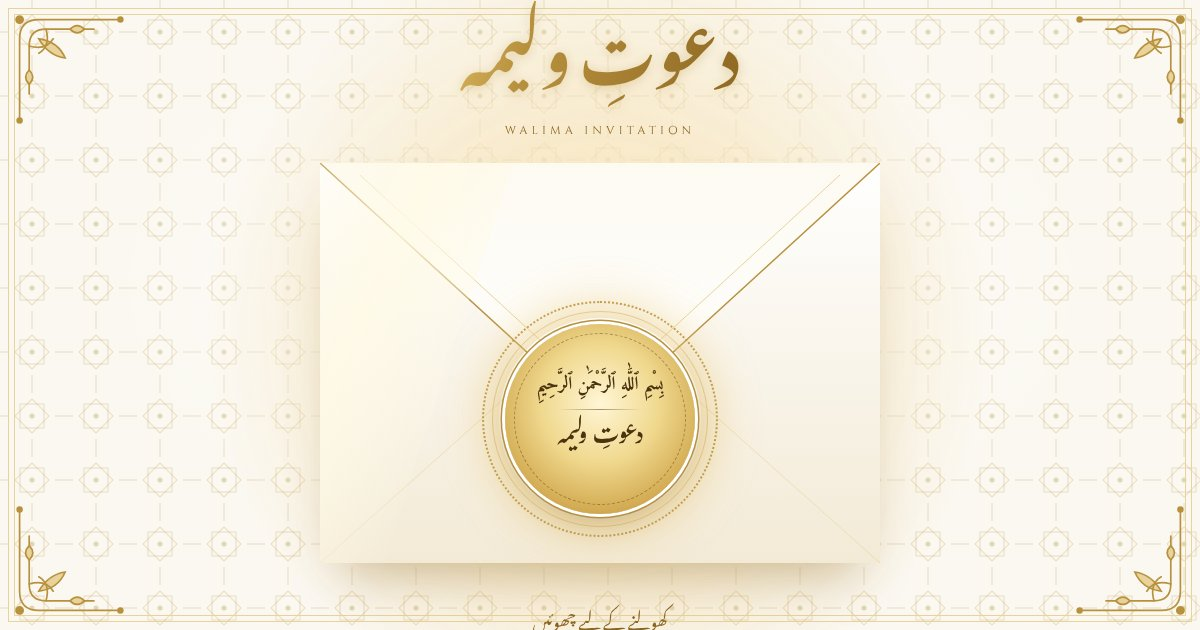
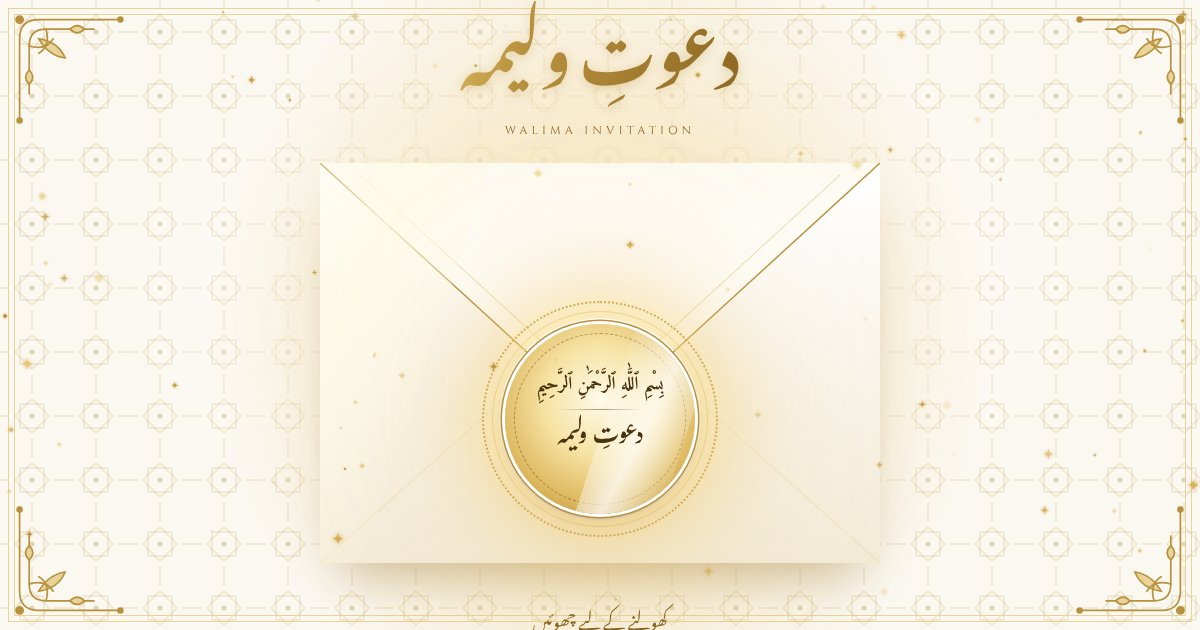
White card: Nikah dates back, twinkling stars back, glowing seal; Walima on the front
Claude-Session: https://claude.ai/code/session_0114uiG5UvM8er5AcL78Nz6p

diff --git a/wedding-card-white/index.html b/wedding-card-white/index.html
@@ -132,8 +132,9 @@ h2.sec .en { font-family: var(--f-caps); font-size: .7rem; letter-spacing: .26em
 .lbl .en { font-family: var(--f-caps); font-size: .62rem; letter-spacing: .24em; text-transform: uppercase; color: var(--ink-soft); margin-top: 2px; }
 
 .events { width: 100%; display: grid; grid-template-columns: 1fr; gap: 16px; }
-.events.one .weekday { font-size: 1.15rem; unicode-bidi: isolate; }
-.events.one .weekday small { display: block; margin: -.2em 0 0; text-align: center; }
+.event.walima { border-color: var(--gold); box-shadow: 0 0 0 4px #fff, 0 0 0 5px var(--gold-light), 0 12px 30px -16px rgba(184,145,63,.6); background: linear-gradient(#fffdf6, #fff6e2); }
+.event.walima h3 { font-size: 1.6rem; }
+.event .tag { font-family: var(--f-callig); font-size: .8rem; line-height: 1.9; color: #fff; background: var(--gold); padding: 0 12px 4px; border-radius: 999px; margin-bottom: 4px; }
 .event { position: relative; display: flex; flex-direction: column; align-items: center; gap: 4px; padding: 22px 18px 18px; border: 1px solid var(--gold-light); background: linear-gradient(#fff, #fffcf4); min-width: 0; }
 .event .day { width: 64px; height: 64px; border-radius: 50%; display: flex; flex-direction: column; align-items: center; justify-content: center;
   border: 1.5px solid var(--gold); box-shadow: 0 0 0 4px #fff, 0 0 0 5px var(--gold-light); margin-bottom: 8px; }
@@ -169,6 +170,8 @@ h2.sec .en { font-family: var(--f-caps); font-size: .7rem; letter-spacing: .26em
 .muntazir .en { font-size: .84rem; color: var(--ink-soft); }
 
 /* ---------- glitter canvases ---------- */
+canvas.sky { position: fixed; inset: 0; width: 100%; height: 100%; z-index: 0; pointer-events: none; }
+body.gate-up canvas.sky { z-index: 35; }
 canvas.burst { position: fixed; inset: 0; width: 100%; height: 100%; z-index: 40; pointer-events: none; }
 
 /* ---------- opening: pearl envelope with a gold seal ---------- */
@@ -238,14 +241,22 @@ canvas.burst { position: fixed; inset: 0; width: 100%; height: 100%; z-index: 40
   position: absolute; left: 50%; top: 64%; z-index: 5;
   width: 168px; height: 168px; margin: -84px 0 0 -84px; border-radius: 50%;
   display: flex; flex-direction: column; align-items: center; justify-content: center;
-  background: radial-gradient(circle at 50% 42%, #fff6d6 0%, #f0d98f 40%, #d4ad55 72%, #a47a2c 100%);
+  background: radial-gradient(circle at 50% 40%, #fffaea 0%, #f6e2a2 38%, #ddb75e 70%, #ad8232 100%);
   box-shadow: 0 0 0 3px #fff, 0 0 0 4.5px var(--gold), 0 14px 30px -10px rgba(138,100,32,.6);
   transition: transform .5s cubic-bezier(.5,0,.2,1), opacity .4s;
 }
 .seal::before { content: ""; position: absolute; inset: 9px; border-radius: 50%; border: 1.2px dashed rgba(90,60,15,.45); }
+/* soft gold halo that breathes, plus a gleam that crosses the seal */
 .seal::after { content: ""; position: absolute; inset: -6px; border-radius: 50%; pointer-events: none;
-  box-shadow: 0 0 46px 14px rgba(232,200,120,.7); animation: halo 1.8s ease-in-out infinite; will-change: opacity; }
-@keyframes halo { 0%, 100% { opacity: .2; } 50% { opacity: 1; } }
+  box-shadow: 0 0 30px 10px rgba(255,226,140,.95), 0 0 80px 34px rgba(240,200,110,.7), 0 0 140px 60px rgba(240,210,140,.35);
+  animation: halo 2s ease-in-out infinite; will-change: opacity; }
+@keyframes halo { 0%, 100% { opacity: .45; } 50% { opacity: 1; } }
+.seal-gleam { position: absolute; inset: 0; border-radius: 50%; overflow: hidden; pointer-events: none; z-index: 1; }
+.seal-gleam::before { content: ""; position: absolute; top: -10%; bottom: -10%; left: -70%; width: 45%;
+  background: linear-gradient(100deg, rgba(255,255,255,0), rgba(255,255,255,.75) 50%, rgba(255,255,255,0));
+  transform: skewX(-18deg); animation: gleam 3s ease-in-out infinite; will-change: transform; }
+@keyframes gleam { 0%, 50% { transform: translateX(0) skewX(-18deg); } 100% { transform: translateX(420%) skewX(-18deg); } }
+.seal > span:not(.seal-gleam) { position: relative; z-index: 2; }
 .seal .bism { font-family: var(--f-arabic); font-weight: 700; font-size: 1rem; line-height: 1.5; color: #4a3410; direction: rtl; padding-inline: 18px; margin-top: -4px; }
 .seal .seal-line { width: 84px; height: 1px; background: linear-gradient(90deg, transparent, #4a3410, transparent); opacity: .5; margin-block: 10px 6px; }
 .seal .ur { font-family: var(--f-urdu); font-size: 1.5rem; line-height: 1.7; color: #4a3410; direction: rtl; }
@@ -277,7 +288,6 @@ canvas.burst { position: fixed; inset: 0; width: 100%; height: 100%; z-index: 40
   .couples > .lbl { grid-column: 1 / -1; justify-self: center; margin-bottom: 8px; }
   .pair-sep { height: 70%; align-self: center; margin: 0; }
   .events { grid-template-columns: repeat(3, 1fr); }
-  .events.one { grid-template-columns: minmax(0, 420px); justify-content: center; }
   .env { width: 560px; }
   .seal { width: 190px; height: 190px; margin: -95px 0 0 -95px; }
   .seal-ring { width: 236px; height: 236px; margin: -118px 0 0 -118px; }
@@ -302,7 +312,7 @@ canvas.burst { position: fixed; inset: 0; width: 100%; height: 100%; z-index: 40
   .replay-text { display: none; }
 }
 @media (prefers-reduced-motion: reduce) {
-  .foil, .seal::after, .glow, .shine::before, .seal-ring, .gate-title .ur, .gate-hint { animation: none; }
+  .foil, .seal::after, .seal-gleam::before, .glow, .shine::before, .seal-ring, .gate-title .ur, .gate-hint { animation: none; }
 }
 </style>
 </head>
@@ -344,6 +354,7 @@ canvas.burst { position: fixed; inset: 0; width: 100%; height: 100%; z-index: 40
     <div class="shine"></div>
     <div class="seal-ring"></div>
     <div class="seal">
+      <span class="seal-gleam" aria-hidden="true"></span>
       <span class="bism" lang="ar">بِسْمِ ٱللَّٰهِ ٱلرَّحْمَٰنِ ٱلرَّحِيمِ</span>
       <span class="seal-line"></span>
       <span class="ur" lang="ur">دعوتِ ولیمہ</span>
@@ -351,6 +362,7 @@ canvas.burst { position: fixed; inset: 0; width: 100%; height: 100%; z-index: 40
   </div>
   <p class="gate-hint"><span class="ur" lang="ur">کھولنے کے لیے چھوئیں</span><span class="en">Tap to open</span></p>
 </div>
+<canvas class="sky" id="sky" aria-hidden="true"></canvas>
 <canvas class="burst" id="burst" aria-hidden="true"></canvas>
 <button class="replay" id="replay" type="button" aria-label="Phir se kholiye" hidden>↺<span class="replay-text"> Phir se kholiye</span></button>
 
@@ -401,8 +413,8 @@ canvas.burst { position: fixed; inset: 0; width: 100%; height: 100%; z-index: 40
     </svg>
 
     <div class="lead">
-      <p class="urdu" lang="ur">بصد احترام آپ کو اپنے نورِ نظر کی شادی خانہ آبادی کی خوشی میں منعقدہ دعوتِ ولیمہ میں شرکت کی دعوت دیتے ہیں۔ آپ کی تشریف آوری ہمارے لیے باعثِ مسرت ہوگی۔</p>
-      <p class="hindi" lang="hi">बसद एहतराम आपको अपने नूर-ए-नज़र की शादी ख़ाना आबादी की ख़ुशी में मुनअक़िद दावत-ए-वलीमा में शिरकत की दावत देते हैं। आपकी तशरीफ़ आवरी हमारे लिए बाइस-ए-मसर्रत होगी।</p>
+      <p class="urdu" lang="ur">بصد احترام آپ کو اپنے نورِ نظر کی تقریباتِ نکاح اور دعوتِ ولیمہ میں شرکت کی دعوت دیتے ہیں۔ آپ کی تشریف آوری ہمارے لیے باعثِ مسرت ہوگی۔</p>
+      <p class="hindi" lang="hi">बसद एहतराम आपको अपने नूर-ए-नज़र की तक़रीबात-ए-निकाह और दावत-ए-वलीमा में शिरकत की दावत देते हैं। आपकी तशरीफ़ आवरी हमारे लिए बाइस-ए-मसर्रत होगी।</p>
     </div>
 
     <div class="couples">
@@ -414,7 +426,7 @@ canvas.burst { position: fixed; inset: 0; width: 100%; height: 100%; z-index: 40
         <div class="weds"><span class="wd"><span lang="ur">ہمراہ</span><small>WEDS</small></span></div>
         <h1 class="name foil" lang="ur">نرگس</h1>
         <div class="name-en">Nargish</div>
-        <div class="date-tag"><span class="ur" lang="ur">نکاح: ۳۰ دسمبر ۲۰۲۶ء</span><span class="en">Nikah · 30 December 2026</span></div>
+        <div class="date-tag"><span class="ur" lang="ur">نکاح بروز بدھ، ۳۰ دسمبر ۲۰۲۶ء</span><span class="en">Nikah · Wednesday, 30 December 2026</span></div>
       </div>
       <div class="pair-sep" aria-hidden="true"></div>
       <div class="pair">
@@ -424,7 +436,7 @@ canvas.burst { position: fixed; inset: 0; width: 100%; height: 100%; z-index: 40
         <div class="weds"><span class="wd"><span lang="ur">ہمراہ</span><small>WEDS</small></span></div>
         <h1 class="name foil" lang="ur">شاہیبہ</h1>
         <div class="name-en">Shahiba</div>
-        <div class="date-tag"><span class="ur" lang="ur">نکاح: ۳۱ دسمبر ۲۰۲۶ء</span><span class="en">Nikah · 31 December 2026</span></div>
+        <div class="date-tag"><span class="ur" lang="ur">نکاح بروز جمعرات، ۳۱ دسمبر ۲۰۲۶ء</span><span class="en">Nikah · Thursday, 31 December 2026</span></div>
       </div>
     </div>
 
@@ -434,13 +446,37 @@ canvas.burst { position: fixed; inset: 0; width: 100%; height: 100%; z-index: 40
       <div><b id="cd-m">00</b><span lang="ur">منٹ<small>Minutes</small></span></div>
     </div>
 
-    <h2 class="sec"><span class="ur foil" lang="ur">دعوتِ ولیمہ</span><span class="en">Dawat-e-Walima</span></h2>
-    <div class="events one">
+    <h2 class="sec"><span class="ur foil" lang="ur">تقریبات</span><span class="en">Programme</span></h2>
+    <div class="events">
       <div class="event">
+        <div class="day"><b>30</b><span>DEC</span></div>
+        <span class="weekday" lang="ur">بدھ<small>WEDNESDAY</small></span>
+        <h3 lang="ur">بارات و نکاح</h3>
+        <span class="en-h">Baraat &amp; Nikah</span>
+        <p class="ur-p" lang="ur">سراج خان ہمراہ نرگس</p>
+        <p class="ur-p" lang="ur">نکاح بعد نمازِ ظہر · بعدہٗ طعام</p>
+        <p class="en-p">Seraj Khan weds Nargish · Nikah after Zuhr, then dinner</p>
+        <p class="hijri" lang="ur" data-hijri="2026-12-30">۲۱ رجب ۱۴۴۸ھ</p>
+      </div>
+      <div class="event">
+        <div class="day"><b>31</b><span>DEC</span></div>
+        <span class="weekday" lang="ur">جمعرات<small>THURSDAY</small></span>
+        <h3 lang="ur">بارات و نکاح</h3>
+        <span class="en-h">Baraat &amp; Nikah</span>
+        <p class="ur-p" lang="ur">فہیم خان ہمراہ شاہیبہ</p>
+        <p class="ur-p" lang="ur">نکاح بعد نمازِ ظہر · بعدہٗ طعام</p>
+        <p class="en-p">Fahim Khan weds Shahiba · Nikah after Zuhr, then dinner</p>
+        <p class="hijri" lang="ur" data-hijri="2026-12-31">۲۲ رجب ۱۴۴۸ھ</p>
+      </div>
+      <div class="event walima">
         <div class="day"><b>1</b><span>JAN</span></div>
-        <span class="weekday" lang="ur">بروز جمعہ، یکم جنوری ۲۰۲۷ء<small>FRIDAY · 1 JANUARY 2027</small></span>
+        <span class="weekday" lang="ur">جمعہ<small>FRIDAY · 2027</small></span>
+        <span class="tag" lang="ur">خصوصی دعوت</span>
+        <h3 lang="ur">دعوتِ ولیمہ</h3>
+        <span class="en-h">Dawat-e-Walima</span>
+        <p class="ur-p" lang="ur">دونوں جوڑوں کی جانب سے</p>
         <p class="ur-p" lang="ur">بعد نمازِ جمعہ</p>
-        <p class="en-p">After Juma prayer</p>
+        <p class="en-p">For both couples · after Juma prayer</p>
         <p class="hijri" lang="ur" data-hijri="2027-01-01">۲۳ رجب ۱۴۴۸ھ</p>
       </div>
     </div>
@@ -544,14 +580,50 @@ function drawStar(ctx, sprite, x, y, r, a) {
 }
 
 
+var sky = document.getElementById("sky"), skyCtx, twinkles = [], skyW = 0, skyH = 0;
+function seedSky() {
+  skyCtx = fitCanvas(sky);
+  skyW = innerWidth; skyH = innerHeight;
+  var n = Math.round(innerWidth * innerHeight / 6000);
+  twinkles = [];
+  function add(x, i) {
+    twinkles.push({ x: x, y: Math.random() * innerHeight,
+      r: 2.5 + Math.random() * 5, ph: Math.random() * 6.28, sp: .6 + Math.random() * 1.6,
+      img: SPRITES[i % SPRITES.length], dy: 4 + Math.random() * 12 });
+  }
+  for (var i = 0; i < n; i++) add(Math.random() * innerWidth, i);
+  var card = document.querySelector(".card").getBoundingClientRect();
+  var side = Math.max(0, card.left - 16);
+  var extra = Math.round(side * innerHeight / 2600);
+  for (var j = 0; j < extra; j++) add(j % 2 ? Math.random() * side : innerWidth - Math.random() * side, j);
+}
+function drawSky(t, dt) {
+  skyCtx.clearRect(0, 0, skyW, skyH);
+  for (var i = 0; i < twinkles.length; i++) {
+    var p = twinkles[i];
+    var a = reduceMotion ? .7 : Math.max(0, Math.sin(t / 1000 * p.sp + p.ph));
+    if (!reduceMotion) { p.y -= p.dy * dt; if (p.y < -10) p.y = skyH + 10; }
+    drawStar(skyCtx, p.img, p.x, p.y, p.r * (.5 + a * .5), a);
+  }
+  skyCtx.globalAlpha = 1;
+}
+seedSky();
+
 var burstC = document.getElementById("burst"), burstCtx = fitCanvas(burstC), flakes = [];
 
-/* keep the glitter canvas the size of the screen */
+/* phones fire "resize" when the address bar slides; only re-scatter on a real width change */
 var resizeTimer;
 addEventListener("resize", function () {
   clearTimeout(resizeTimer);
   resizeTimer = setTimeout(function () {
+    if (Math.abs(innerWidth - skyW) > 40) seedSky();
+    else if (innerHeight !== skyH) {
+      var k = innerHeight / skyH;
+      twinkles.forEach(function (p) { p.y *= k; });
+      skyCtx = fitCanvas(sky); skyW = innerWidth; skyH = innerHeight;
+    }
     burstCtx = fitCanvas(burstC);
+    if (reduceMotion) drawSky(0, 0);
   }, 150);
 });
 
@@ -584,39 +656,41 @@ function drawBurst(dt) {
   if (!flakes.length) burstCtx.clearRect(0, 0, innerWidth, innerHeight);
 }
 
-/* the glitter only animates while the burst is falling */
-var last = 0, running = false;
+var last = 0;
 function loop(t) {
   var dt = last ? Math.min((t - last) / 1000, .05) : 0;
   last = t;
-  drawBurst(dt);
-  if (flakes.length) requestAnimationFrame(loop); else { running = false; last = 0; }
+  if (!document.hidden) { drawSky(t, dt); if (flakes.length) drawBurst(dt); }
+  requestAnimationFrame(loop);
 }
-function startBurst() { burst(); if (!running) { running = true; requestAnimationFrame(loop); } }
+if (reduceMotion) drawSky(0, 0); else requestAnimationFrame(loop);
 
 /* ---------- opening: only when the guest taps ---------- */
 var gate = document.getElementById("gate"), replay = document.getElementById("replay"), opened = false;
 function openGate() {
   if (opened) return;
   opened = true;
-  if (reduceMotion) { gate.hidden = true; replay.hidden = false; return; }
+  if (reduceMotion) { gate.hidden = true; replay.hidden = false; document.body.classList.remove("gate-up"); return; }
   gate.classList.add("open");
-  setTimeout(startBurst, 450);
+  setTimeout(burst, 450);
   setTimeout(function () { gate.classList.add("fade"); }, 1500);
   setTimeout(function () {
     gate.hidden = true; replay.hidden = false;
-    }, 2150);
+      document.body.classList.remove("gate-up");
+  }, 2150);
 }
 function showGate() {
   opened = false;
   gate.classList.remove("open", "fade");
   gate.hidden = false; replay.hidden = true;
+  document.body.classList.add("gate-up");
   scrollTo(0, 0);
   gate.focus({ preventScroll: true });
 }
 gate.addEventListener("click", openGate);
 gate.addEventListener("keydown", function (e) { if (e.key === "Enter" || e.key === " ") { e.preventDefault(); openGate(); } });
 replay.addEventListener("click", showGate);
+document.body.classList.add("gate-up");
 </script>
 </body>
 </html>
